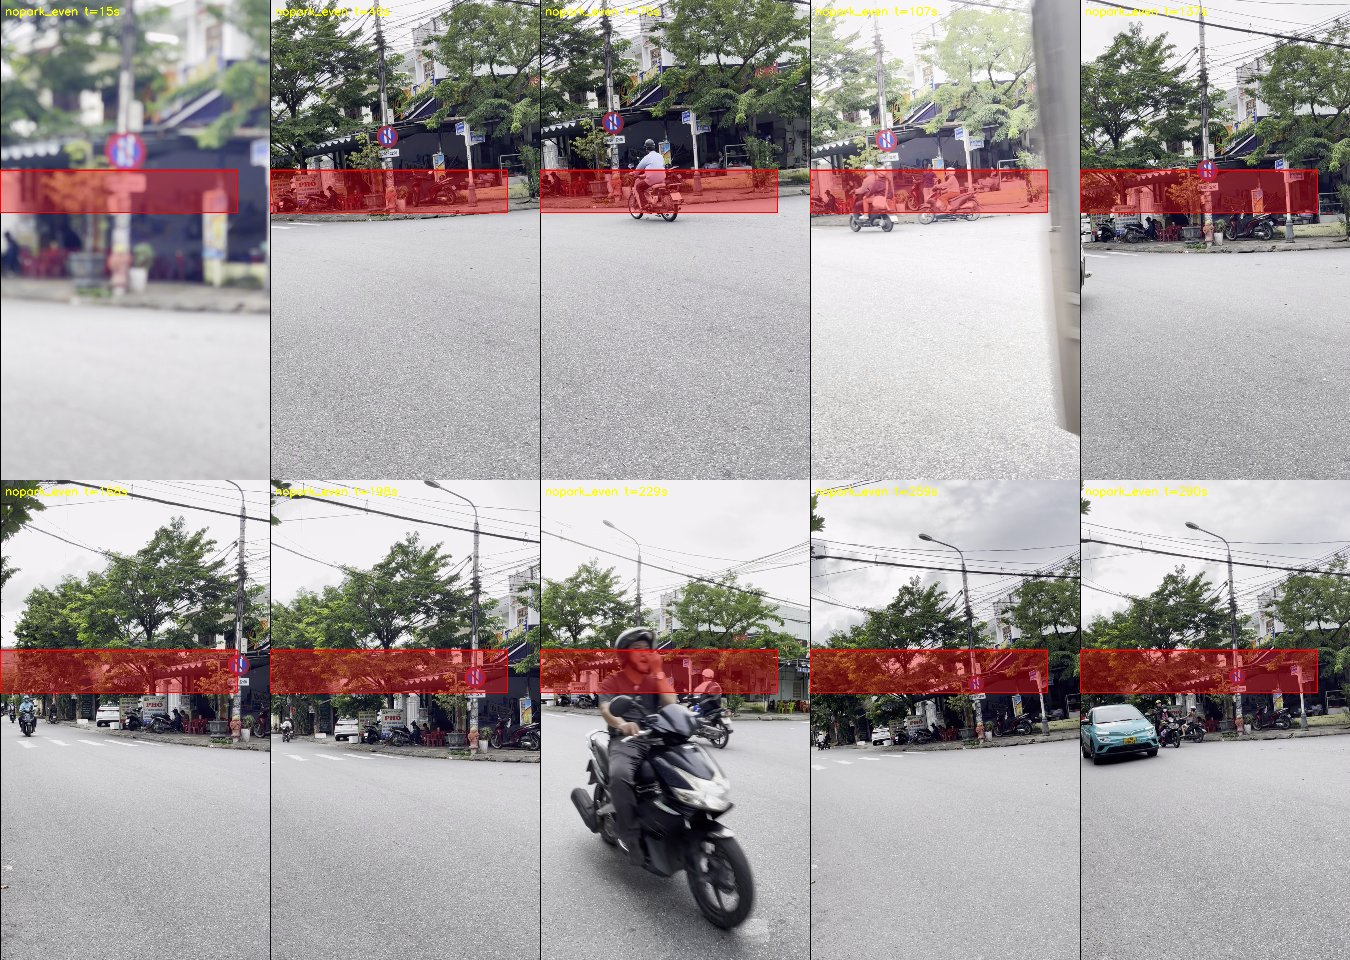
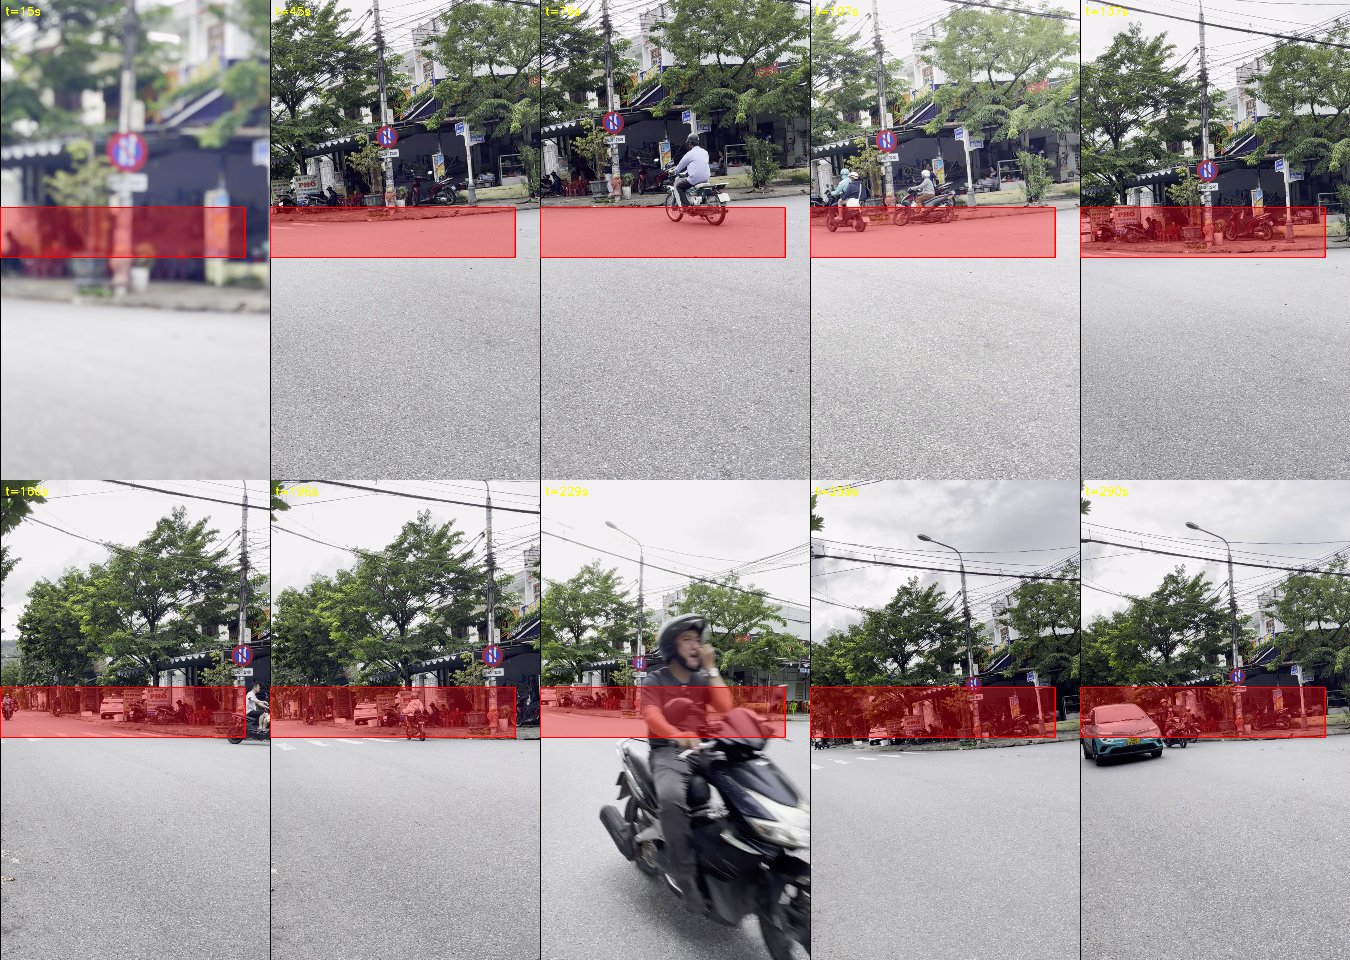
Fix nopark_even zone polygon: was covering tree canopy, not vehicles
User caught this reviewing the full-video check grid -- the red
zone band sat above the real parked car/motorbikes, not on them.
Coordinate-grid re-check confirmed: vehicles sit at y~830-1030, but
the shipped polygon was y=680-850 (the tree canopy above the
sidewalk). Corrected to (0,830)-(980,1030) and re-verified across
the same 10 full-video timestamps -- now sits on the vehicle row in
every frame that has one present.

The prior commit's claim that all 4 zones were confirmed valid was
wrong for this one -- the full-video review checked general scene
overlap, not vehicle-specific overlap per frame.

Claude-Session: https://claude.ai/code/session_01YF3p9kAMy6zUoGND8BA4kD

diff --git a/src/pilot_zone_configs.py b/src/pilot_zone_configs.py
@@ -51,9 +51,13 @@ PILOT_CLIPS = {
         "dwell_seconds": 60.0,
         "active_hours": (6, 22),  # read directly off the sign's time plate in-frame
         "active_days": "even",
-        # DRAFT polygon: full sidewalk strip spanning both real parked-bike clusters visible in
-        # the reference frame (nopark_even_001140_t0038.03s.jpg), one on each side of the sign.
-        "zone_polygon": [(0, 680), (950, 680), (950, 850), (0, 850)],
+        # Sidewalk strip where real vehicles (car + motorbikes) actually sit, right under the
+        # "PHO" shop awning. CORRECTED 2026-09-30: the original polygon (y=680-850) was too high
+        # -- it covered the tree canopy above the sidewalk, not the vehicles themselves, which
+        # sit at y~830-1030. Caught when the user reviewed the full-video verification grid and
+        # noticed the red zone band sat above the actual cars/motorbikes in every frame; a
+        # coordinate-grid re-check confirmed it. See docs/RUNLOG.md 2026-09-30.
+        "zone_polygon": [(0, 830), (980, 830), (980, 1030), (0, 1030)],
     },
     "nopark_odd": {
         "video_path": VIDEO_DIR / "Biển cấm đỗ xe vào ngày lẻ.mov",

diff --git a/docs/RUNLOG.md b/docs/RUNLOG.md
@@ -392,3 +392,25 @@ detector output without cross-checking.
 No zone_polygon values changed as a result of this pass -- all 4 are confirmed valid for their
 full clip duration, closing the "still a draft, single-frame only" caveat that was in
 `src/pilot_zone_configs.py`'s docstring.
+
+---
+
+## 2026-09-30 — Correction: nopark_even zone polygon was too high (caught by user review)
+
+The previous entry claimed all 4 zones were confirmed valid from the full-video check -- that was
+wrong for `nopark_even`. The user reviewed the `nopark_even_fullcheck_grid.jpg` output directly
+and flagged that the red zone band looked like it was sitting above the real parked vehicles, not
+on them ("đáng lý nó phải ở dưới chứ nhỉ"). I had only checked that the band overlapped the right
+general area of the frame, not that it actually sat on the vehicles themselves in each thumbnail
+-- a real review miss.
+
+Re-extracted a reference frame with a pixel coordinate grid overlay: the real parked car +
+motorbikes sit at y~830-1030, but the shipped polygon was y=680-850 -- entirely covering the tree
+canopy above the sidewalk, only clipping the very top edge of the vehicles at best. Corrected to
+`[(0, 830), (980, 830), (980, 1030), (0, 1030)]` and re-rendered across the same 10 full-video
+timestamps -- confirmed now sits directly on the car/motorbike row in every frame that has a
+vehicle present (t=166s, 196s, 259s, 290s).
+
+Lesson: "the red band overlaps something in the right region" is not the same check as "the red
+band covers the actual vehicle" -- need to look at vehicle-vs-polygon overlap specifically per
+frame, not just general scene position, when self-verifying these grids next time.
